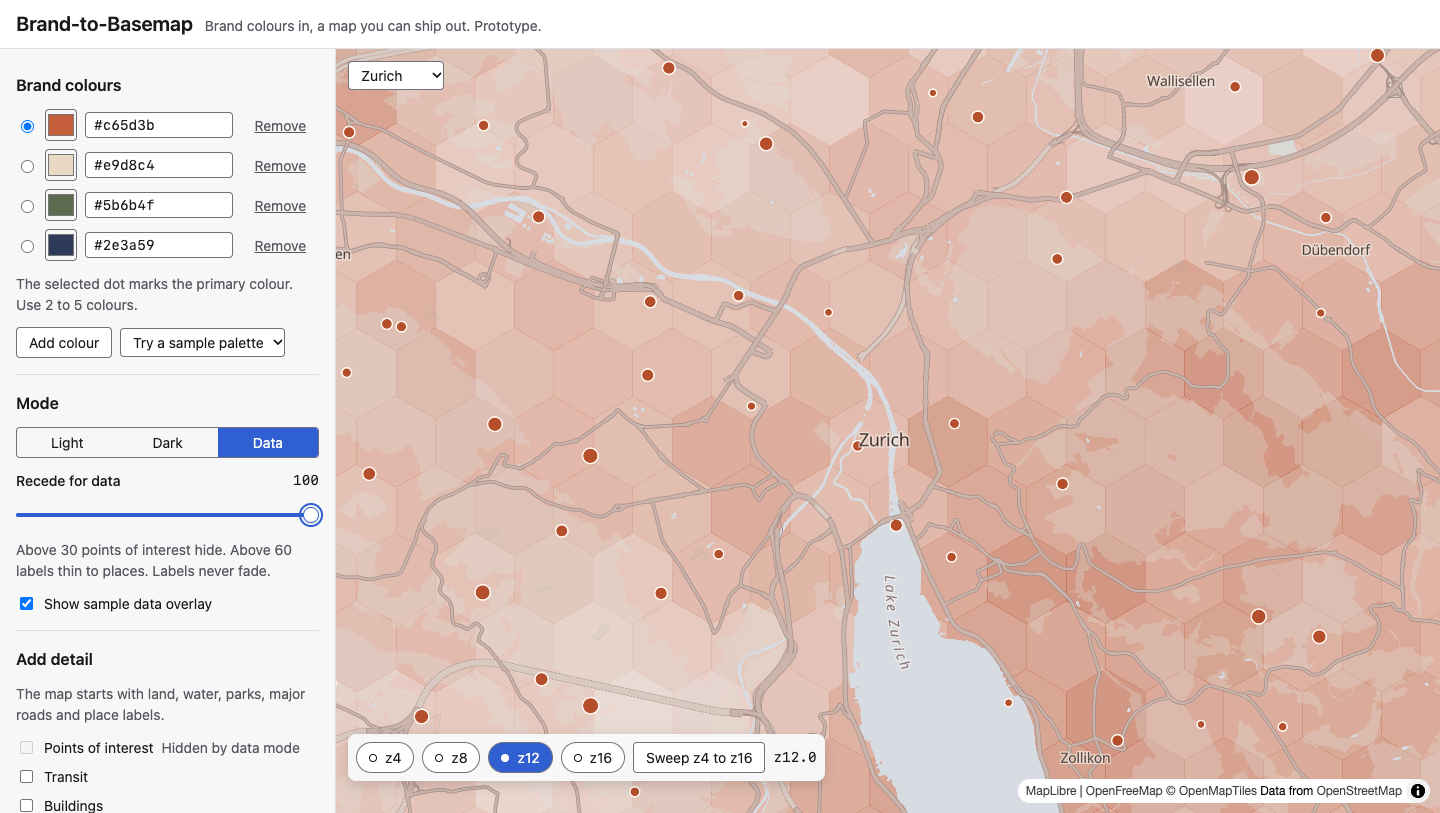
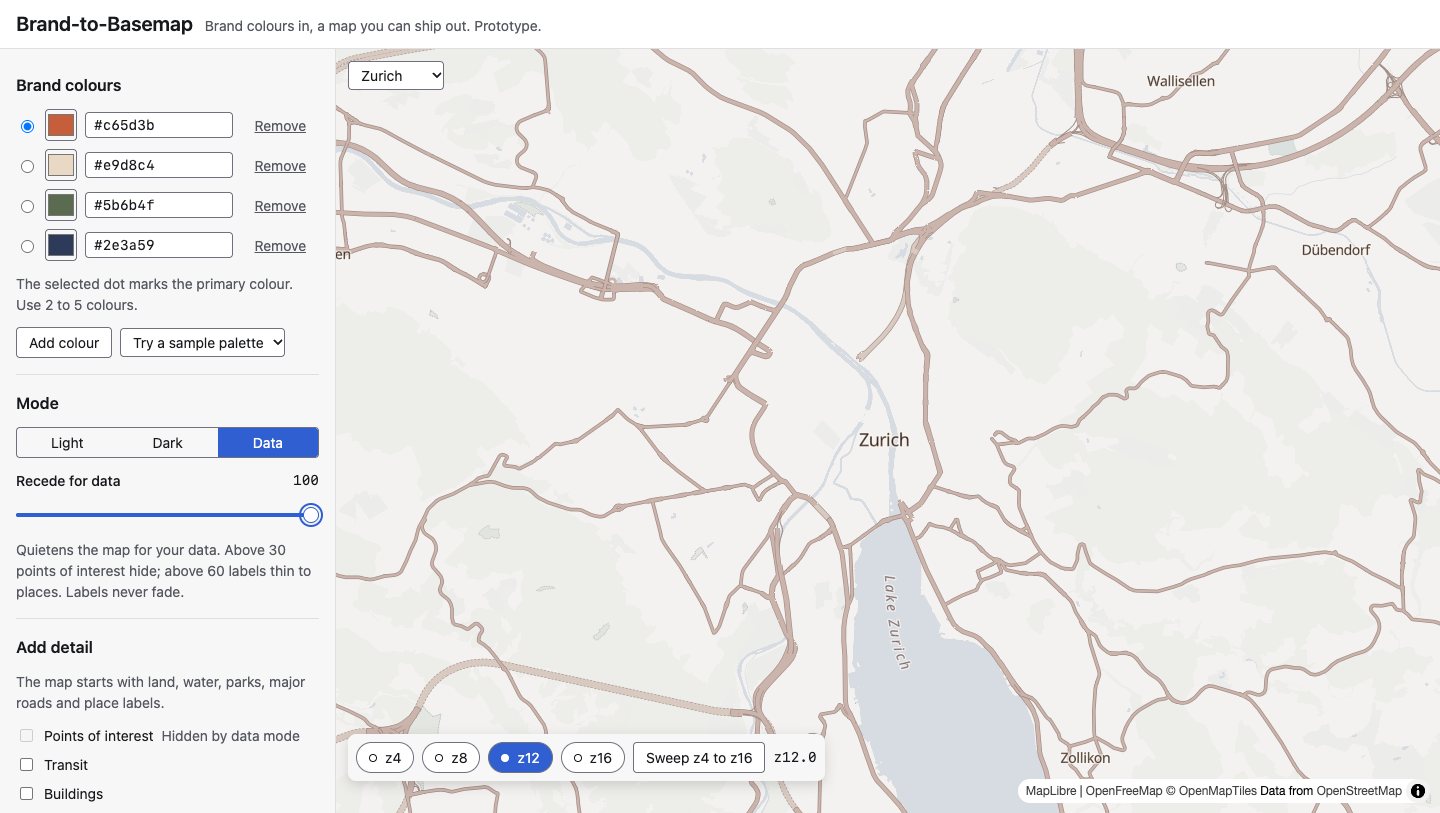
Record the A2 decisions and dropped overlay; add the secondary blend sheets
CLAUDE.md and the requirements now carry the F5 and data thresholds, the
second-colour rule, minor roads from z14, the key rule and the S3 anchor
layer. The blend sheets are a test only: the mapping is unchanged.

diff --git a/docs/p0-requirements.md b/docs/p0-requirements.md
@@ -32,7 +32,7 @@ P0 serves both segments (agencies/freelancers and small product teams) with the 
 1. **Enter brand colours** — 2–5 colours, one marked primary. *(the only required decision)*
 2. **See the branded map** — minimal-first canvas, live.
 3. **Add detail** — toggle groups and label density.
-4. **Switch modes** — light, dark, data (recede slider, sample overlay).
+4. **Switch modes** — light, dark, data (recede slider).
 5. **Check zooms** — zoom stops (z4 / z8 / z12 / z16) on the main map, with a sweep and a review dot per stop.
 6. **Check accessibility** — pass/fail per mode, colour-vision simulation, auto-fix.
 7. **Choose provider** — OpenFreeMap (default) or MapTiler with own key.
@@ -58,6 +58,7 @@ Everything else depends on this, so it is specified first.
 **Outcome:** brand colours become a complete, coherent token set in one step.
 
 - Input 2–5 colours via a colour picker or pasted hex values. One is marked primary.
+- Second colour rule: the lightest low-chroma brand colour seeds the land tint, within the chroma cap; the second most chromatic seeds road minor, boundary and the building tint.
 - The system derives all 11 tokens from the input, with harmonised neutrals for land and labels, derived by OKLCH rules (lightness and chroma targets per token, hue taken from the brand) and tested on a set of 10 palettes.
 - The map updates live, within about 300 ms of a change.
 - Any single token can be overridden by hand; an override survives later changes to the brand colours until reset.
@@ -67,8 +68,8 @@ Everything else depends on this, so it is specified first.
 
 **Outcome:** the map starts quiet and beautiful; detail is added only on request, already in brand.
 
-- Default state: land, water, parks, major roads, place labels. Everything else off.
-- Toggle groups: POIs, transit, buildings, landuse, minor roads, boundaries, and label density (low, medium, high).
+- Default state: land, water, parks, major roads, place labels, and minor roads from about z14. Everything else off.
+- Toggle groups: POIs, transit, buildings, landuse, minor roads below z14 (low-zoom clutter only), boundaries, and label density (low, medium, high).
 - A group switched on appears already styled from the tokens, with no extra decisions.
 - No layer list in the main UI.
 
@@ -78,7 +79,7 @@ Everything else depends on this, so it is specified first.
 
 - Light is the default. Dark is derived automatically from the same tokens, not a separate style.
 - Data mode: one "recede for data" slider (0–100) scales fill and line chroma down to about 20%, pulls land and road lightness toward each other, hides POIs above 30 and thins minor labels above 60. Labels are thinned, never faded, so they keep passing the contrast check. In P0 data mode applies to the light palette only; dark with data recede is P1.
-- In data mode, a sample overlay (fictional points and a hex-grid choropleth) can be shown, and labels render above it. The overlay is generated on the fly with seeded values for whatever location and zoom is on screen, so it works anywhere. It is demo-only and is not part of any export.
+- The sample data overlay was dropped from the app (S2 scope reminder). A dev-only generator stays in the harness (`#overlay=1`), outside the app bundle and never exported. Data mode keeps the recede slider, the POI and label rules, and one line of explanation.
 - All three modes are exportable.
 
 ### F4. Zoom stops
@@ -96,7 +97,9 @@ Everything else depends on this, so it is specified first.
 
 **Outcome:** the user knows the map is readable and can fix it in one click.
 
-- Checks contrast for label primary and secondary against the colours they sit on (with and without halo) against WCAG AA 4.5:1, and key features (roads, water, boundaries against land) at 3:1.
+- Checks contrast for label primary (7:1) and secondary (4.5:1) against the colours they sit on, with and without halo.
+- Checks features against land: road major and boundary 3:1; road minor 1.5:1; water and park by OKLab colour distance, not a ratio (threshold to be set from the per-palette values in `docs/contrast-report.md`; proposed 0.05).
+- In data mode the road major / land threshold slides linearly from 3:1 at recede 0 to 1.5:1 at recede 100. Labels stay AA.
 - Shows a clear pass or fail summary, per mode and per zoom stop, with the failing token pairs named.
 - Colour-vision simulation toggle: protanopia, deuteranopia, tritanopia.
 - Auto-fix adjusts token lightness, keeping hue as close to the brand as possible, until checks pass. Shows what changed and allows undo.
@@ -109,6 +112,7 @@ Everything else depends on this, so it is specified first.
 - Provider switch: OpenFreeMap (default, no key) or MapTiler (user pastes their own key, stored in localStorage, never in the URL). The deployed app ships with no key and there is no demo key.
 - Switching provider keeps the token set and re-applies it to that provider's base style.
 - Exports: MapLibre style JSON per mode; the token set as JSON and as CSS variables; a copy-paste HTML/JS embed snippet.
+- The exported style includes a stable, documented anchor layer ID for "add your data above this, below the labels".
 - Required attribution is included automatically for the chosen provider.
 - The current state can be saved and reopened (decided: URL-encoded state in the hash plus local autosave; the MapTiler key is never put in the URL).
 - A persistent Export button opens the export panel at any time. There is no forced final step; the scripted demo ends in the export panel.
@@ -163,7 +167,7 @@ Everything else depends on this, so it is specified first.
 | Q1 | Base style per provider | OpenFreeMap **Liberty** + MapTiler **Streets v2**. We repaint every layer from tokens, so what matters is layer richness (POIs, transit, buildings for the F2 toggles). Revisit only if M1 finds a blocking mapping problem. |
 | Q2 | How the derived palette is generated | **OKLCH** rules (lightness and chroma targets per token, hue from the brand), tested on a 10-palette set. |
 | Q3 | Save and share | **URL-encoded state** (brand colours, overrides, toggles, mode, location) in the hash, plus local autosave. The MapTiler key is never put in the URL. The token JSON export already serves as a project file. |
-| Q4 | What the data-mode slider changes, and which overlay | 0→100 scales chroma down (to about 20%), compresses land/road lightness toward each other, hides POIs above 30 and minor labels above 60. Receding acts on fills and lines; labels are thinned, never faded. Overlay: fictional points and a hex-grid choropleth, generated on the fly with seeded values; demo only, not exported. In P0, data mode applies to the light palette only. |
+| Q4 | What the data-mode slider changes, and which overlay | 0→100 scales chroma down (to about 20%), compresses land/road lightness toward each other, hides POIs above 30 and minor labels above 60. Receding acts on fills and lines; labels are thinned, never faded. The sample overlay was later dropped from the app; see F3. In P0, data mode applies to the light palette only. |
 | Q5 | Default location and how to change it | **Zurich** by default; the user can pan anywhere or pick from 6 curated cities, Kyiv among them. The other four are still to be chosen for variety (proposal: Barcelona, New York, Tokyo, Nairobi). No place search in P0. |
 | Q6 | What "done" looks like | No forced final step; a persistent **Export** button; the scripted demo ends in the export panel. |
 
@@ -178,7 +182,7 @@ Everything else depends on this, so it is specified first.
 ## Open items for the PM (spec additions, defaults apply unless Artem objects)
 
 - **Auto-fix vs manual overrides.** Default: auto-fix does not change a token the user set by hand; it flags the failing override and asks.
-- **Contrast pair matrix.** "Labels against the colours they sit on" needs a fixed list of checked pairs per mode (place labels sit on land, water, parks and roads) and a rule for how the halo counts. Claude Code proposes the matrix; the PM reviews.
+- **Contrast pair matrix.** The feature thresholds are decided (see F5). Still open: the OKLab threshold for water and park, the fixed list of label pairs per mode, and how the halo counts.
 - **Measuring the success criteria.** "Under 5 minutes" needs a timed test with 2–3 first-time users; "renders identically" needs a scripted check (export → plain MapLibre page → visual diff).
 - **Hosting and public link.** Claude Code's call (GitHub Pages or Vercel); no secrets in the repo.
 - **Test palettes.** Use palettes inspired by well-known brands but shown under fictional brand names, to avoid trademark use in a public case study.
@@ -193,8 +197,8 @@ Owners: **CC** = Claude Code, **PM** = the PM chat, **A** = Artem, **DA** = desi
 | --- | --- | --- | --- |
 | S0 Setup | Repo and stack scaffold; public deploy; UI token pipeline (DTCG JSON → CSS variables, lint against hard-coded values) with placeholder tokens; short stack confirmation note | CC | None |
 | S1 Token model and palette engine (M1 + M2) | F0 mapping for Liberty and Streets v2, applyTokens, unmapped-layer report; OKLCH derivation, dark and data transforms, overrides; harness page and screenshots on 10 test palettes | CC | Checkpoint A: review screenshots (about 15 min) |
-| S2 App shell (F1–F4) | Brand input, live map, overrides and reset, detail toggles, light, dark and data modes, recede slider, generated overlay, zoom stops | CC | Checkpoint B: try the app (about 15 min) |
-| S3 Quality and shipping (F5–F6) | Contrast checks per mode and zoom stop, colour-vision simulation, auto-fix with undo, provider switch, exports, URL state, attribution | CC | Checkpoint C: try auto-fix and export (about 15 min) |
+| S2 App shell (F1–F4) | Brand input, live map, overrides and reset, detail toggles, light, dark and data modes, recede slider, zoom stops | CC | Checkpoint B: try the app (about 15 min) |
+| S3 Quality and shipping (F5–F6) | Contrast checks per mode and zoom stop, colour-vision simulation, auto-fix with undo, provider switch, exports with a data anchor layer, URL state, attribution | CC | Checkpoint C: try auto-fix and export (about 15 min) |
 | S4 Validation and demo | Export-fidelity check in a plain MapLibre page, run on 10 palettes, WCAG AA audit of the tool's own UI, 2-minute demo script, public URL; optional 2–3 timed first-time-user sessions | CC, PM, A | Final review (about 30 min) |
 | Phase 2: design pass (after P0) | App UX, UI and branding for the working prototype, in Figma; Figma Variables become the source of UI tokens; sync into the repo via the Figma MCP; restyle | DA, CC, A | Reviews |
 

diff --git a/CLAUDE.md b/CLAUDE.md
@@ -16,10 +16,13 @@ A web prototype: a designer enters 2-5 brand colours and gets a shippable, quali
 - Base styles: OpenFreeMap **Liberty** and MapTiler **Streets v2**. Liberty is pinned in the repo. Streets is gitignored because of its licence: `npm run fetch-styles` gets it for local tests, and the deployed app fetches it at runtime with the user's key.
 - Palette derivation: **OKLCH** rules, tested on a set of 10 palettes.
 - Save/share: URL-encoded state in the hash plus local autosave. The MapTiler key is never put in the URL.
-- Data mode: a 0-100 "recede" slider on the light palette only (dark + data is P1). The demo overlay (fictional points and a hex-grid choropleth) is generated on the fly, is demo-only, and is never exported.
+- Data mode: a 0-100 "recede" slider on the light palette only (dark + data is P1). The sample data overlay is dropped from the app; a dev-only generator stays in the harness (`#overlay=1`), outside the app bundle.
 - Zoom: no multi-map strip. One main map with zoom stops (about z4, z8, z12, z16), a sweep, and a review dot per stop.
 - Default location Zurich; the user can pan anywhere or pick from 6 curated cities (Kyiv included). No place search in P0.
 - No forced final step: a persistent Export button.
+- Second colour: the lightest low-chroma brand colour seeds the land tint, within the chroma cap; the second most chromatic seeds `roadMinor`, `boundary` and the `building` tint.
+- F5 thresholds: `roadMajor` and `boundary` 3:1 against land; `roadMinor` 1.5:1; water and park by OKLab distance from land; labels 7:1 and 4.5:1. In data mode `roadMajor`/land slides linearly from 3:1 at recede 0 to 1.5:1 at 100, and labels stay AA.
+- Minor roads are in the base map from z14; the toggle only adds them below that.
 - Buildings are always flat fills, so they show the exact `building` token. No 3D in P0.
 - Token layering: brand input, base tokens, per-mode transform, per-mode overrides, auto-fix adjustments.
 - Stack: Vite, TypeScript, React, maplibre-gl, culori, Vitest, plain CSS custom properties, Radix UI primitives (unstyled).
@@ -29,7 +32,8 @@ A web prototype: a designer enters 2-5 brand colours and gets a shippable, quali
 - **Lean and fast.** The target is a working, presentable P0 in 1-2 days. No scope creep; anything not in the P0 requirements is out. Decide small things yourself and note them in your report.
 - **Two token families, kept apart.** *Map tokens* (the 11 semantic colours, generated from brand colours) and *UI tokens* (the tool's own interface). Components never hard-code a colour, size or font; a lint check enforces it.
 - **Single source of truth.** The map, modes, checks and exports all read from the map token set. No other place may hold a colour the map renders.
-- **No personal or unrestricted keys in the repo or bundle.** The deployed app ships with no MapTiler key and defaults to OpenFreeMap; MapTiler works only when the user pastes their own key, which stays in localStorage and never goes in the URL. The personal `MAPTILER_KEY` lives in `.env.local` for local scripts only and is never written into fixtures, screenshots, exports or `dist/`; `npm run build` fails if it appears there. There is no demo key.
+- **No personal or unrestricted keys in the repo or bundle; personal key only in `.env.local`.** The deployed app ships with no MapTiler key and defaults to OpenFreeMap; MapTiler works only when the user pastes their own key, which stays in localStorage and never goes in the URL. The personal `MAPTILER_KEY` lives in `.env.local` for local scripts only and is never written into fixtures, screenshots, exports or `dist/`; `npm run build` fails if it appears there. There is no demo key.
+- **The app UI is a proof-of-concept.** Phase 2 owns polish. Fix only what affects the map or the function.
 - **Attribution** (provider and OpenStreetMap) is always visible and included in exports.
 - **The tool's own UI meets WCAG AA.**
 - **Pure, tested core.** Style and token logic are pure functions with unit tests.

diff --git a/README.md b/README.md
@@ -18,6 +18,8 @@ The deployed app ships with no MapTiler key. MapTiler works when a user pastes t
 
 ## App shell (S2)
 
-`npm run dev` starts the app: brand colours (picker or hex, one primary, sample palettes), light, dark and data modes with the recede slider and a generated demo overlay, detail toggles and label density, per-token overrides with reset, six cities, and zoom stops with a sweep and review dots. It runs on Liberty with no key. Screenshots of the real app are in `docs/screens/s2/`, made by `npm run screens:app` against `vite preview`.
+`npm run dev` starts the app: brand colours (picker or hex, one primary, sample palettes), light, dark and data modes with the recede slider, detail toggles and label density, per-token overrides with reset, six cities, and zoom stops with a sweep and review dots. It runs on Liberty with no key. Screenshots of the real app are in `docs/screens/s2/`, made by `npm run screens:app` against `vite preview`.
+
+The app UI is a proof-of-concept; Phase 2 owns polish. A dev-only data overlay lives in the harness: add `&overlay=1` to a palette URL. It is not in the app bundle.
 
 Not in yet: provider switch and MapTiler key (S3), accessibility checks and per-stop status (S3), exports and URL state (S3).

diff --git a/docs/token-model.md b/docs/token-model.md
@@ -93,7 +93,7 @@ The palette engine ([palette-engine.md](palette-engine.md)) uses this in light a
 
 Every layer carries one group in its `b2b:group` metadata: `core`, `pois`, `transit`, `buildings`, `landuse`, `minorRoads`, `boundaries` or `labels`. Labels also carry `b2b:density`.
 
-`applyTokens(base, tokens, { mapping, groups, labelDensity })` sets visibility. The default is `core` plus `labels` at low density: land, water, parks, major roads and place labels. `core` can never be hidden.
+`applyTokens(base, tokens, { mapping, groups, labelDensity })` sets visibility. Known `minorRoads` layers are in the base map from z14 (`MINOR_ROADS_BASE_ZOOM`): with the group off they draw from there, and the group adds them below it. Layers new to the mapping stay off. The default is `core` plus `labels` at low density: land, water, parks, major roads and place labels. `core` can never be hidden.
 
 The harness turns every group on so all layers can be inspected, so its screenshots show more than the F2 default.
 
